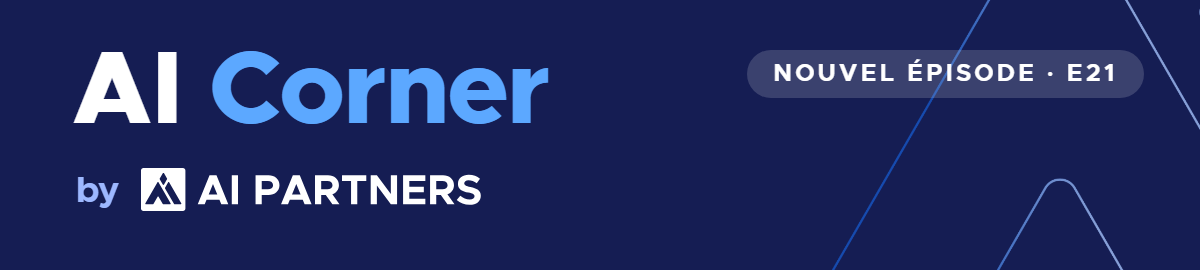
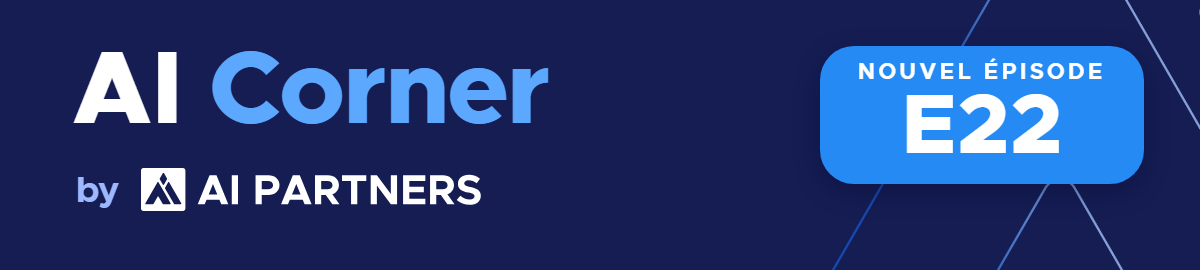
Newsletter E22 : question en encart, numéro d'épisode en grand dans l'en-tête, emojis sur les 4 cartes, bouton de réservation avec Thomas

Changed region(s): [[0.6167, 0.1481, 0.9558, 0.6815]]

diff --git a/docs/newsletters/E22/email.html b/docs/newsletters/E22/email.html
@@ -10,14 +10,15 @@
 <tr><td bgcolor="#151D53"><img src="https://arthurw31.github.io/ai-partners-podcast-content-machine/newsletters/E22/entete.png" width="680" alt="AI Corner by AI Partners · E22" style="display:block;width:100%;max-width:680px"></td></tr>
 <tr><td><a href="https://www.youtube.com/playlist?list=PLeeolan_fqxdZbU5xZqEwo12pbqK3fH5N"><img src="https://arthurw31.github.io/ai-partners-podcast-content-machine/newsletters/E22/miniature_sans_play.jpg" width="680" alt="Thomas Spitz et Quentin Amaudry" style="display:block;width:100%;max-width:680px"></a></td></tr>
 <tr><td bgcolor="#151D53" class="pad" style="padding:26px 40px 30px 40px;font-family:Helvetica, Arial, sans-serif"><div style="font-size:28px;font-weight:bold;color:#FFFFFF;line-height:1.2">Embarquer l&#x27;humain dans la transformation IA</div><div style="font-size:15px;color:#9DB8FF;padding-top:12px"><strong style="color:#FFFFFF">Thomas Spitz</strong> reçoit <strong style="color:#FFFFFF">Quentin Amaudry</strong> · Cofondateur et CEO de Mendo</div></td></tr>
-<tr><td bgcolor="#FFFFFF" class="pad" style="padding:30px 40px 0 40px;font-family:Helvetica, Arial, sans-serif;font-size:17px;line-height:1.6;color:#1D2C76"><p style="margin:0 0 14px 0;font-weight:bold">Bonjour {{prenom}},</p><p style="margin:0 0 16px 0;font-weight:bold;color:#151D53;font-size:20px;line-height:1.45">Comment installer durablement de nouveaux usages quand l&#x27;outil change toutes les semaines ? Une formation faite en janvier est déjà en partie périmée en mars, et les équipes, elles, n&#x27;ont pas changé d&#x27;habitudes.</p><p style="margin:0">Pour ce nouvel épisode d&#x27;AI Corner, j&#x27;ai le plaisir de recevoir Quentin Amaudry, cofondateur et CEO de Mendo. Il a lancé l&#x27;entreprise il y a cinq ans, avant l&#x27;arrivée de l&#x27;IA générative, en partant d&#x27;un constat : une fracture numérique s&#x27;installait entre des logiciels toujours plus riches et des salariés qui n&#x27;avaient ni le temps ni l&#x27;envie de les apprendre. Mendo est un produit tech, pas un cabinet de conseil (il y insiste), et accompagne bientôt 200 000 utilisateurs dans le monde. Avec lui, j&#x27;ai voulu comprendre ce que veut dire concrètement « adopter l&#x27;IA » quand les outils changent toutes les semaines.</p></td></tr>
+<tr><td bgcolor="#FFFFFF" class="pad" style="padding:30px 40px 0 40px;font-family:Helvetica, Arial, sans-serif;font-size:17px;line-height:1.6;color:#1D2C76"><p style="margin:0 0 14px 0;font-weight:bold">Bonjour {{prenom}},</p><div style="margin:0 0 16px 0;padding:18px 22px;background-color:#F1F6FD;border-left:5px solid #258AF3;border-radius:10px;font-size:22px;line-height:1.35;font-weight:bold;color:#151D53">Comment installer durablement de nouveaux usages quand l&#x27;outil change toutes les semaines ?</div><p style="margin:0 0 16px 0;font-size:17px;line-height:1.6;color:#1D2C76">Une formation faite en janvier est déjà en partie périmée en mars, et les équipes, elles, n&#x27;ont pas changé d&#x27;habitudes.</p><p style="margin:0">Pour ce nouvel épisode d&#x27;AI Corner, j&#x27;ai le plaisir de recevoir Quentin Amaudry, cofondateur et CEO de Mendo. Il a lancé l&#x27;entreprise il y a cinq ans, avant l&#x27;arrivée de l&#x27;IA générative, en partant d&#x27;un constat : une fracture numérique s&#x27;installait entre des logiciels toujours plus riches et des salariés qui n&#x27;avaient ni le temps ni l&#x27;envie de les apprendre. Mendo est un produit tech, pas un cabinet de conseil (il y insiste), et accompagne bientôt 200 000 utilisateurs dans le monde. Avec lui, j&#x27;ai voulu comprendre ce que veut dire concrètement « adopter l&#x27;IA » quand les outils changent toutes les semaines.</p></td></tr>
 <tr><td align="center"><table role="presentation" cellpadding="0" cellspacing="0" style="margin:28px auto"><tr><td bgcolor="#151D53" style="border-radius:999px"><a href="https://www.youtube.com/playlist?list=PLeeolan_fqxdZbU5xZqEwo12pbqK3fH5N" style="display:inline-block;padding:16px 36px;font-family:Helvetica, Arial, sans-serif;font-size:16px;font-weight:bold;color:#FFFFFF;text-decoration:none;letter-spacing:.04em">REGARDER L&#x27;ÉPISODE ▶</a></td></tr></table></td></tr>
 <tr><td class="pad" style="padding:6px 34px 0 34px;font-family:Helvetica, Arial, sans-serif">
  <div style="font-size:20px;font-weight:bold;color:#151D53;padding:0 6px 14px 6px">Au programme de cet épisode</div>
- <table role="presentation" width="100%" cellpadding="0" cellspacing="0"><tr><td style="font-size:0;line-height:0"><div class="card" style="display:inline-block;vertical-align:top;width:48.5%;margin:0 .75% 12px .75%;box-sizing:border-box;background-color:#F1F6FD;border-radius:14px;padding:16px 16px 18px 16px;height:224px;text-align:left;font-family:Helvetica, Arial, sans-serif;font-size:14px;line-height:1.5;color:#1D2C76"><div style="font-size:22px;font-weight:bold;color:#258AF3;padding-bottom:6px">01</div><strong style="color:#151D53;font-size:16px;line-height:1.3">Ce que veut dire adopter</strong><br>Tout le monde parle d&#x27;adoption, mais chacun en a sa définition : agents autonomes, déploiement d&#x27;entreprise, usage réel des employés. Quentin démonte les niveaux.</div><div class="card" style="display:inline-block;vertical-align:top;width:48.5%;margin:0 .75% 12px .75%;box-sizing:border-box;background-color:#F1F6FD;border-radius:14px;padding:16px 16px 18px 16px;height:224px;text-align:left;font-family:Helvetica, Arial, sans-serif;font-size:14px;line-height:1.5;color:#1D2C76"><div style="font-size:22px;font-weight:bold;color:#258AF3;padding-bottom:6px">02</div><strong style="color:#151D53;font-size:16px;line-height:1.3">Le muscle du changement</strong><br>Avant, un logiciel nouveau tous les deux à cinq ans ; aujourd&#x27;hui tout bouge tous les trois à six mois. Et 15 % des salariés formés seulement changent de méthode.</div><div class="card" style="display:inline-block;vertical-align:top;width:48.5%;margin:0 .75% 12px .75%;box-sizing:border-box;background-color:#F1F6FD;border-radius:14px;padding:16px 16px 18px 16px;height:224px;text-align:left;font-family:Helvetica, Arial, sans-serif;font-size:14px;line-height:1.5;color:#1D2C76"><div style="font-size:22px;font-weight:bold;color:#258AF3;padding-bottom:6px">03</div><strong style="color:#151D53;font-size:16px;line-height:1.3">Des usages encore très basiques</strong><br>Emails, brainstorming, un peu d&#x27;Excel : les usages restent simples, avec 20 à 40 % d&#x27;adoption hebdomadaire et moins de 5 % des entreprises françaises en mode tokens.</div><div class="card" style="display:inline-block;vertical-align:top;width:48.5%;margin:0 .75% 12px .75%;box-sizing:border-box;background-color:#F1F6FD;border-radius:14px;padding:16px 16px 18px 16px;height:224px;text-align:left;font-family:Helvetica, Arial, sans-serif;font-size:14px;line-height:1.5;color:#1D2C76"><div style="font-size:22px;font-weight:bold;color:#258AF3;padding-bottom:6px">04</div><strong style="color:#151D53;font-size:16px;line-height:1.3">Le boycott silencieux</strong><br>Une statistique citée par Quentin : 20 à 30 % des salariés disent boycotter en secret la stratégie IA de leur entreprise, sans que le comex en entende jamais parler.</div></td></tr></table></td></tr>
+ <table role="presentation" width="100%" cellpadding="0" cellspacing="0"><tr><td style="font-size:0;line-height:0"><div class="card" style="display:inline-block;vertical-align:top;width:48.5%;margin:0 .75% 12px .75%;box-sizing:border-box;background-color:#F1F6FD;border-radius:14px;padding:16px 16px 18px 16px;height:224px;text-align:left;font-family:Helvetica, Arial, sans-serif;font-size:14px;line-height:1.5;color:#1D2C76"><div style="font-size:22px;font-weight:bold;color:#258AF3;padding-bottom:6px">01&nbsp;&nbsp;<span style="font-size:22px">🎯</span></div><strong style="color:#151D53;font-size:16px;line-height:1.3">Ce que veut dire adopter</strong><br>Tout le monde parle d&#x27;adoption, mais chacun en a sa définition : agents autonomes, déploiement d&#x27;entreprise, usage réel des employés. Quentin démonte les niveaux.</div><div class="card" style="display:inline-block;vertical-align:top;width:48.5%;margin:0 .75% 12px .75%;box-sizing:border-box;background-color:#F1F6FD;border-radius:14px;padding:16px 16px 18px 16px;height:224px;text-align:left;font-family:Helvetica, Arial, sans-serif;font-size:14px;line-height:1.5;color:#1D2C76"><div style="font-size:22px;font-weight:bold;color:#258AF3;padding-bottom:6px">02&nbsp;&nbsp;<span style="font-size:22px">💪</span></div><strong style="color:#151D53;font-size:16px;line-height:1.3">Le muscle du changement</strong><br>Avant, un logiciel nouveau tous les deux à cinq ans ; aujourd&#x27;hui tout bouge tous les trois à six mois. Et 15 % des salariés formés seulement changent de méthode.</div><div class="card" style="display:inline-block;vertical-align:top;width:48.5%;margin:0 .75% 12px .75%;box-sizing:border-box;background-color:#F1F6FD;border-radius:14px;padding:16px 16px 18px 16px;height:224px;text-align:left;font-family:Helvetica, Arial, sans-serif;font-size:14px;line-height:1.5;color:#1D2C76"><div style="font-size:22px;font-weight:bold;color:#258AF3;padding-bottom:6px">03&nbsp;&nbsp;<span style="font-size:22px">🛠</span></div><strong style="color:#151D53;font-size:16px;line-height:1.3">Des usages encore très basiques</strong><br>Emails, brainstorming, un peu d&#x27;Excel : les usages restent simples, avec 20 à 40 % d&#x27;adoption hebdomadaire et moins de 5 % des entreprises françaises en mode tokens.</div><div class="card" style="display:inline-block;vertical-align:top;width:48.5%;margin:0 .75% 12px .75%;box-sizing:border-box;background-color:#F1F6FD;border-radius:14px;padding:16px 16px 18px 16px;height:224px;text-align:left;font-family:Helvetica, Arial, sans-serif;font-size:14px;line-height:1.5;color:#1D2C76"><div style="font-size:22px;font-weight:bold;color:#258AF3;padding-bottom:6px">04&nbsp;&nbsp;<span style="font-size:22px">🤫</span></div><strong style="color:#151D53;font-size:16px;line-height:1.3">Le boycott silencieux</strong><br>Une statistique citée par Quentin : 20 à 30 % des salariés disent boycotter en secret la stratégie IA de leur entreprise, sans que le comex en entende jamais parler.</div></td></tr></table></td></tr>
 <tr><td align="center" style="padding:10px 24px 0 24px;font-family:Helvetica, Arial, sans-serif;font-size:16px;font-weight:bold;color:#151D53">Retrouvez l'épisode complet sur YouTube 👇</td></tr>
 <tr><td align="center" style="padding:14px 24px 0 24px"><a href="https://www.youtube.com/playlist?list=PLeeolan_fqxdZbU5xZqEwo12pbqK3fH5N"><img src="https://arthurw31.github.io/ai-partners-podcast-content-machine/newsletters/E22/episode_youtube.jpg" width="632" alt="" style="display:block;width:100%;max-width:632px;border-radius:14px"></a></td></tr>
 <tr><td bgcolor="#FFFFFF" class="pad" style="padding:30px 40px 36px 40px;font-family:Helvetica, Arial, sans-serif;font-size:17px;line-height:1.6;color:#1D2C76"><p style="margin:0 0 18px 0">Ce qui m&#x27;a frappé dans cette conversation, c&#x27;est que le vrai sujet n&#x27;est pas l&#x27;outil mais la capacité d&#x27;une organisation à réapprendre en continu. J&#x27;espère que cet échange vous sera utile, et je serai curieux de savoir où vous en êtes de votre côté.</p><p style="margin:0;font-weight:bold;color:#151D53">Thomas Spitz<br>CEO et fondateur d'AI Partners</p></td></tr>
+<tr><td bgcolor="#F1F6FD" align="center" class="pad" style="padding:34px 40px 36px 40px;font-family:Helvetica, Arial, sans-serif"><div style="font-size:22px;font-weight:bold;color:#151D53;line-height:1.3">Vos équipes testent l&#x27;IA. Et après ?</div><div style="font-size:16px;line-height:1.55;color:#1D2C76;padding-top:8px">Passons de l&#x27;expérimentation à l&#x27;impact : 30 minutes avec moi pour en parler.</div><table role="presentation" cellpadding="0" cellspacing="0" style="margin:22px auto 0 auto"><tr><td bgcolor="#258AF3" style="border-radius:999px"><a href="https://calendar.google.com/calendar/appointments/schedules/AcZssZ0_yeSZr-eANdqFosuQLg2jE2smXxRU-eIMCXBA0WC3CynV7uSHwNeGX8FK-0MHDtpLcNiC4f9_?gv=true" style="display:inline-block;padding:16px 34px;font-family:Helvetica, Arial, sans-serif;font-size:16px;font-weight:bold;color:#FFFFFF;text-decoration:none;letter-spacing:.02em">Réserver un échange avec Thomas 📅</a></td></tr></table></td></tr>
 <tr><td bgcolor="#1D2C76"><img src="https://arthurw31.github.io/ai-partners-podcast-content-machine/newsletters/E22/plateformes_titre.png" width="680" alt="Écoutez AI Corner partout" style="display:block;width:100%;max-width:680px"></td></tr><tr><td bgcolor="#1D2C76" align="center" style="padding:0 14px 38px 14px"><table role="presentation" align="center" cellpadding="0" cellspacing="0"><tr><td align="center" valign="middle" width="96" style="padding:0 8px"><a href="https://www.youtube.com/playlist?list=PLeeolan_fqxdZbU5xZqEwo12pbqK3fH5N" style="text-decoration:none"><img src="https://arthurw31.github.io/ai-partners-podcast-content-machine/newsletters/E22/plateforme_youtube.png" width="80" height="80" alt="YouTube" style="display:block;width:80px;height:80px;border:0"></a></td><td align="center" valign="middle" width="96" style="padding:0 8px"><a href="https://open.spotify.com/show/4chUmiipM4KiK4sEdL9BeP" style="text-decoration:none"><img src="https://arthurw31.github.io/ai-partners-podcast-content-machine/newsletters/E22/plateforme_spotify.png" width="80" height="80" alt="Spotify" style="display:block;width:80px;height:80px;border:0"></a></td><td align="center" valign="middle" width="96" style="padding:0 8px"><a href="https://podcast.ausha.co/ai-partners-podcast" style="text-decoration:none"><img src="https://arthurw31.github.io/ai-partners-podcast-content-machine/newsletters/E22/plateforme_ausha.png" width="80" height="80" alt="Ausha" style="display:block;width:80px;height:80px;border:0"></a></td></tr></table></td></tr>
 <tr><td bgcolor="#151D53" class="pad" style="padding:22px 40px;font-family:Helvetica, Arial, sans-serif;font-size:12px;line-height:1.6;color:#9DB8FF">AI Corner, le podcast d'AI Partners.<br>Vous recevez ce mail car vous êtes en contact avec AI Partners. <a href="{{lien_desinscription}}" style="color:#8A93B2">Se désinscrire</a></td></tr>
 </table></td></tr></table></body></html>

diff --git a/clipper/newsletter_templates.py b/clipper/newsletter_templates.py
@@ -301,12 +301,15 @@ def _grid(cards: list, dark: bool = False) -> str:
     # les 4 cartes ont la MÊME hauteur (Arthur, 14/10/2026), quelle que soit la quantité de texte : minimum commun, jamais rogné
     h = max((need(p) for p in list(cards)[:4]), default=0) + 38
 
+    def emo(p):   # emoji de la carte (Arthur, 15/10/2026 : « sur la partie 4 carrés rajouter des emojis »)
+        return f'&nbsp;&nbsp;<span style="font-size:22px">{esc(p["emoji"])}</span>' if p.get("emoji") else ""
+
     def card(k, p):
         # carte = bloc « inline-block » (2 par ligne, empilées sur téléphone par .card) ; les cellules de tableau passées en
         # display:block débordaient du mail sur téléphone (14/10/2026)
         return (f'<div class="card" style="display:inline-block;vertical-align:top;width:48.5%;margin:0 .75% 12px .75%;box-sizing:border-box;'
                 f'background-color:{bg};border-radius:14px;padding:16px 16px 18px 16px;height:{h}px;text-align:left;font-family:{FONT};'
-                f'font-size:14px;line-height:1.5;color:{tx}"><div style="font-size:22px;font-weight:bold;color:{num};padding-bottom:6px">{k:02d}</div>'
+                f'font-size:14px;line-height:1.5;color:{tx}"><div style="font-size:22px;font-weight:bold;color:{num};padding-bottom:6px">{k:02d}{emo(p)}</div>'
                 f'<strong style="color:{tt};font-size:16px;line-height:1.3">{esc(p.get("title"))}</strong><br>{esc(p.get("text"))}</div>')
     return ('<tr><td style="font-size:0;line-height:0">' + "".join(card(i + 1, p) for i, p in enumerate(list(cards)[:4])) + "</td></tr>")
 
@@ -340,12 +343,43 @@ def _title_band(c: dict, with_names: bool = True) -> str:
             f'<div style="font-size:28px;font-weight:bold;color:#FFFFFF;line-height:1.2">{esc(c["theme"])}</div>{names}</td></tr>')
 
 
+def _hook_html(c: dict, dark: bool = False) -> str:
+    """Accroche lisible (Arthur, 15/10/2026 : « modifier la mise en forme au début sur les questions pour que ce soit plus lisible ») :
+    la ou les QUESTIONS dans un encart à filet bleu, en gros ; le reste de l'accroche en texte normal juste dessous."""
+    import re
+    text = str(c.get("hook") or "").strip()
+    sents = [x for x in re.split(r"(?<=[?!.])\s+", text) if x]
+    k = max((i for i, x in enumerate(sents) if x.endswith("?")), default=-1)
+    q, rest = " ".join(sents[:k + 1]), " ".join(sents[k + 1:])
+    if not q:
+        q, rest = text, ""
+    fg, box, line = ("#FFFFFF", NAVY_MID, BLUE_SKY) if dark else (NAVY, LIGHT, BLUE)
+    out = (f'<div style="margin:0 0 16px 0;padding:18px 22px;background-color:{box};border-left:5px solid {line};border-radius:10px;'
+           f'font-size:22px;line-height:1.35;font-weight:bold;color:{fg}">{para(q)}</div>')
+    if rest:
+        out += f'<p style="margin:0 0 16px 0;font-size:17px;line-height:1.6;color:{"#DCE3F7" if dark else NAVY_MID}">{para(rest)}</p>'
+    return out
+
+
 def _text_block(c: dict, dark: bool = False, hook: bool = True) -> str:
-    fg, strong = ("#DCE3F7", "#FFFFFF") if dark else (NAVY_MID, NAVY)
+    fg = "#DCE3F7" if dark else NAVY_MID
     bg = NAVY if dark else "#FFFFFF"
-    h = (f'<p style="margin:0 0 16px 0;font-weight:bold;color:{strong};font-size:20px;line-height:1.45">{para(c["hook"])}</p>' if hook else "")
+    h = _hook_html(c, dark) if hook and c.get("hook") else ""
     return (f'<tr><td bgcolor="{bg}" class="pad" style="padding:30px 40px 0 40px;font-family:{FONT};font-size:17px;line-height:1.6;color:{fg}">'
             f'<!--HELLO-->{h}<p style="margin:0">{para(c["intro"])}</p></td></tr>')
+
+
+def _booking(c: dict) -> str:
+    """Appel à l'action : réserver un échange avec Thomas (agenda de prise de rendez-vous), avant le bandeau des plateformes."""
+    b = c.get("booking") or {}
+    if not b.get("url"):
+        return ""
+    return (f'<tr><td bgcolor="{LIGHT}" align="center" class="pad" style="padding:34px 40px 36px 40px;font-family:{FONT}">'
+            f'<div style="font-size:22px;font-weight:bold;color:{NAVY};line-height:1.3">{esc(b.get("title") or "")}</div>'
+            f'<div style="font-size:16px;line-height:1.55;color:{NAVY_MID};padding-top:8px">{esc(b.get("text") or "")}</div>'
+            f'<table role="presentation" cellpadding="0" cellspacing="0" style="margin:22px auto 0 auto"><tr><td bgcolor="{BLUE}" style="border-radius:999px">'
+            f'<a href="{esc(b["url"])}" style="display:inline-block;padding:16px 34px;font-family:{FONT};font-size:16px;font-weight:bold;'
+            f'color:#FFFFFF;text-decoration:none;letter-spacing:.02em">{esc(b.get("button") or "Réserver un échange")} 📅</a></td></tr></table></td></tr>')
 
 
 # ---------------------------------------------------------------------------------------------------------------
@@ -384,11 +418,12 @@ def make_chrome(brand, d: Path, mail: dict, shot, fonts_css: str, uri, logo_svg:
             f".k b{{color:{BLUE_SKY}}}"
             f".by{{position:absolute;left:76px;top:168px;display:flex;align-items:center;gap:22px;color:#9DB8FF;font-weight:700;font-size:36px}}"
             f".by svg{{height:46px;width:auto;display:block}}"
-            f".pill{{position:absolute;right:56px;top:50px;background:rgba(255,255,255,.16);color:#fff;font-weight:700;font-size:24px;"
-            f"letter-spacing:.14em;padding:12px 26px;border-radius:999px;text-transform:uppercase}}"
+            f".pill{{position:absolute;right:56px;top:46px;background:{BLUE};color:#fff;text-align:center;padding:16px 38px 12px 38px;border-radius:34px;"
+            f"box-shadow:0 8px 24px rgba(5,10,45,.35)}}.pill i{{display:block;font-style:normal;font-weight:700;font-size:22px;letter-spacing:.16em;"
+            f"text-transform:uppercase}}.pill b{{display:block;font-weight:800;font-size:84px;line-height:1.05;letter-spacing:-.01em}}"
             f"</style></head><body><img class='l' src='{uri(brand.asset('outro_bg.png'))}'>"
             f"<div class='k'>AI <b>Corner</b></div><div class='by'><span>by</span>{logo_svg}</div>"
-            f"<div class='pill'>Nouvel épisode · {esc(mail['episode'])}</div></body></html>")
+            f"<div class='pill'><i>Nouvel épisode</i><b>{esc(mail['episode'])}</b></div></body></html>")
     out["header"] = shot(page, 1200, 270, d / "entete.png")
     title = (f"<html><head><meta charset='utf-8'><style>{fonts_css}*{{margin:0}}body{{width:1200px;height:300px;overflow:hidden;position:relative;"
              f"background:radial-gradient(ellipse 70% 120% at 85% 0%,{BLUE} 0%,rgba(37,138,243,0) 70%),{BAND_BG};font-family:M,Arial}}"
@@ -448,6 +483,7 @@ def duo(c: dict) -> str:
 <tr><td align="center" style="padding:10px 24px 0 24px;font-family:{FONT};font-size:16px;font-weight:bold;color:{NAVY}">Retrouvez l'épisode complet sur YouTube 👇</td></tr>
 <tr><td align="center" style="padding:14px 24px 0 24px">{youtube(c)}</td></tr>
 {closing_block(c, NAVY_MID, "#FFFFFF", NAVY)}
+{_booking(c)}
 {_platforms(c)}"""
     return shell(c, "#E9EEF9", body, NAVY, "#9DB8FF")
 
@@ -540,6 +576,7 @@ def context(brand_cfg: dict, mail: dict, imgs: dict, title: str) -> dict:
             "guest": mail.get("guest", ""), "role": mail.get("role", ""), "theme": mail.get("theme", ""),
             "hook": mail.get("hook", ""), "intro": mail.get("intro", ""), "closing": mail.get("closing", ""),
             "program": mail.get("program") or [], "url": default_url(brand_cfg, mail), "title": title, "img": imgs,
+            "booking": brand_cfg.get("booking") or {},
             "button": brand_cfg.get("button") or "REGARDER L'ÉPISODE", "platforms": brand_cfg.get("platforms") or [],
             "host_name": brand_cfg.get("from_name") or "Thomas Spitz", "host_role": brand_cfg.get("host_role") or "CEO d'AI Partners",
             "sig": brand_cfg.get("signature") or "Thomas Spitz<br>CEO et fondateur d'AI Partners",

diff --git a/clipper/newsletter.py b/clipper/newsletter.py
@@ -87,9 +87,9 @@ envoie personnellement à ses contacts pour un nouvel épisode. Brief, à suivre
 
 Réponds UNIQUEMENT en JSON :
 {{"subject": "🎙 AI Corner E23 : …", "preheader": "…", "theme": "phrase-thème de 4 à 9 mots",
-  "hook": "la question que pose l'épisode (1 à 2 phrases)",
+  "hook": "la question que pose l'épisode (1 phrase, qui finit par « ? »), puis 1 phrase de contexte",
   "intro": "Pour ce nouvel épisode d'AI Corner, j'ai le plaisir de recevoir … (qui est l'invité, 2 à 3 phrases, puis l'angle de la conversation)",
-  "program": [{{"title": "titre court", "text": "1 phrase concrète", "chapter": "4:53"}}],
+  "program": [{{"title": "titre court", "text": "1 phrase concrète", "emoji": "1 emoji qui illustre le point", "chapter": "4:53"}}],
   "closing": "mot de fin de Thomas, 1 à 2 phrases",
   "evidence": [{{"claim": "fait sur l'invité ou chiffre cité", "t": 123.4, "quote": "passage EXACT de la transcription"}}]}}"""
 
@@ -307,10 +307,12 @@ def email_text(brand, mail: dict) -> str:
     sig = (cfg.get("signature") or "Thomas Spitz<br>CEO et fondateur d'AI Partners").replace("<br>", "\n")
     from .newsletter_templates import default_url
     url = default_url(cfg, mail)
-    prog = "\n".join(f"- {p.get('title', '')} : {p.get('text', '')}" for p in mail.get("program") or [])
+    b = cfg.get("booking") or {}
+    prog = "\n".join(f"- {(p.get('emoji', '') + ' ').lstrip()}{p.get('title', '')} : {p.get('text', '')}" for p in mail.get("program") or [])
+    cta = f"\n{b['title']} {b['text']}\n{b.get('button', 'Réserver un échange')} : {b['url']}\n" if b.get("url") else ""
     return (f"{mail['guest']} ({mail.get('role', '')})\n{mail.get('theme', '')}\n\n{mail.get('hook', '')}\n\n"
             f"{mail.get('intro', '')}\n\nRegarder l'épisode : {url}\n\nAu programme de cet épisode\n{prog}\n\n"
-            f"{mail.get('closing', '')}\n\n{sig}\n")
+            f"{mail.get('closing', '')}\n{cta}\n{sig}\n")
 
 
 def _preview(d: Path, page: str, out: Path) -> Path:
